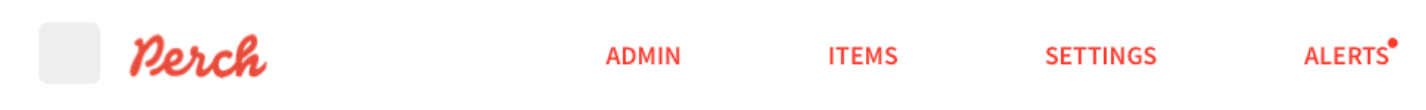
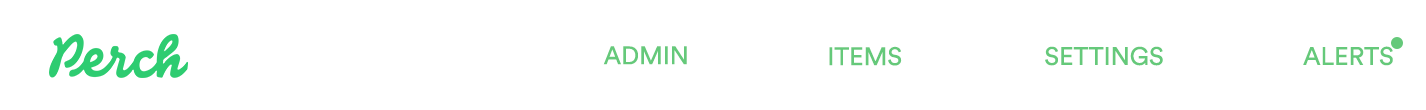
Updated navbar

diff --git a/public/css/custom.css b/public/css/custom.css
@@ -137,3 +137,5 @@
 .performance-card .performance-chart {
 	height: 150px;
 }
+
+/*65C97A*/
